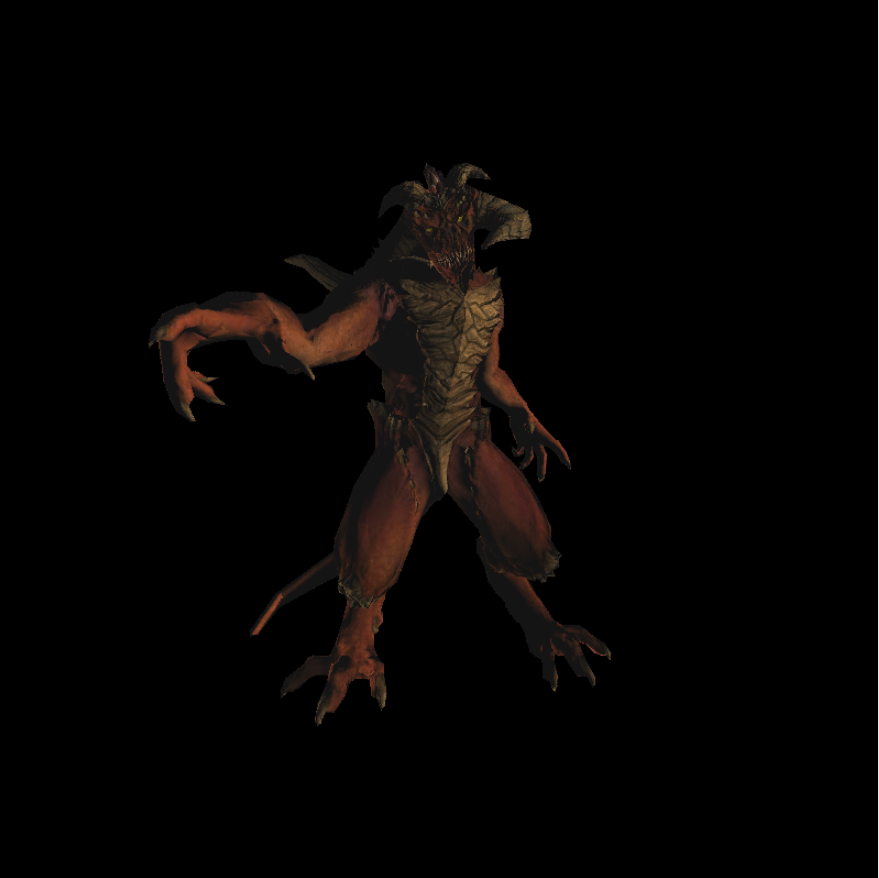
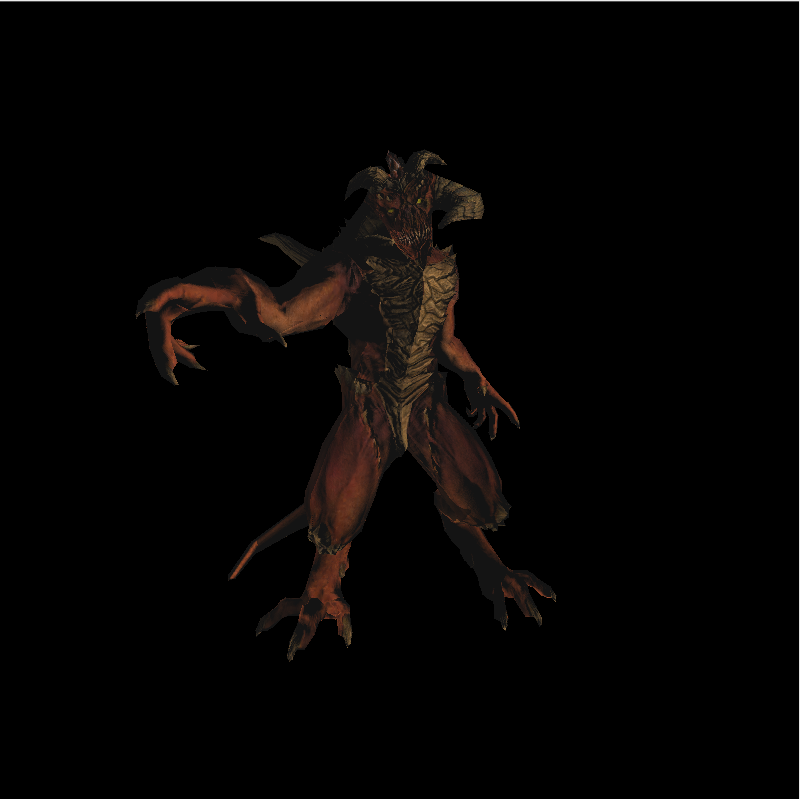
fix some bugs

diff --git a/main.cpp b/main.cpp
@@ -122,8 +122,8 @@ struct PhongShader: BaseShader
 		vec3 b2 = vec3(varying_uv[1][1] - varying_uv[0][1], varying_uv[2][1] - varying_uv[0][1], 0.0);
 
 		mat3 TBN;
-		TBN[0] = A_inv * b1;
-		TBN[1] = A_inv * b2;
+		TBN[0] = normalize(A_inv * b1);
+		TBN[1] = normalize(A_inv * b2);
 		TBN[2] = N;
 
 		vec3 world_space_normal = normalize(TBN * model->normal(uv));
